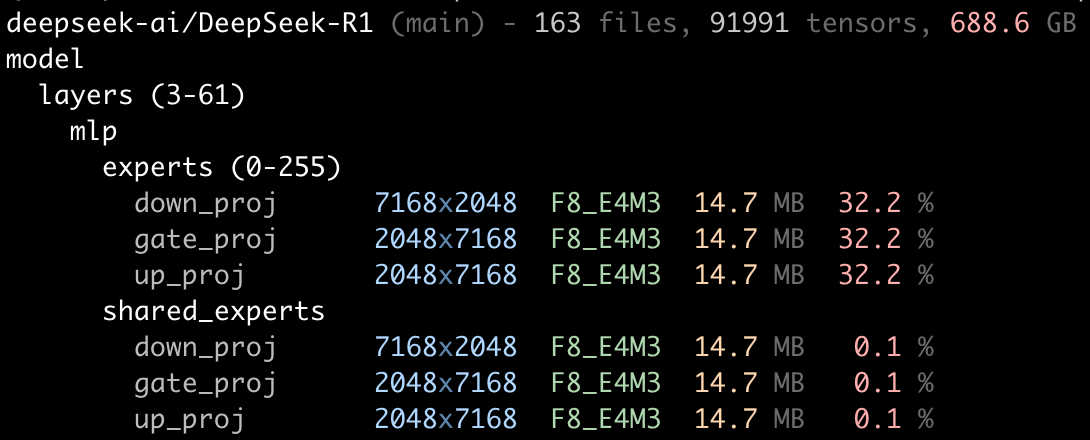
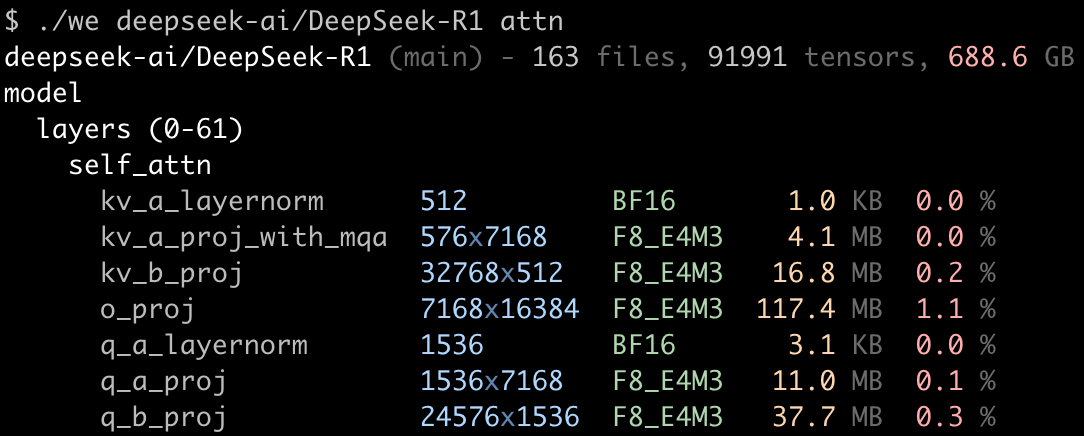
Update hero screenshot and match retina display width

diff --git a/README.md b/README.md
@@ -3,7 +3,7 @@
 `we` is a small, terminal-first model weight viewer for Hugging Face checkpoints.
 
 <p align="center">
-  <img src="docs/assets/deepseek_example.png" alt="Screenshot of we listing DeepSeek-R1 tensors" width="545" />
+  <img src="docs/assets/deepseek_example.png" alt="Screenshot of we listing DeepSeek-R1 tensors" width="542" />
 </p>
 
 Today it focuses on model introspection. Next steps are compression experiments (TTNN `bfp8`/`bfp4`/`bfp2`) and quality metrics (`pcc`, `rtol`, `atol`) against original weights.
